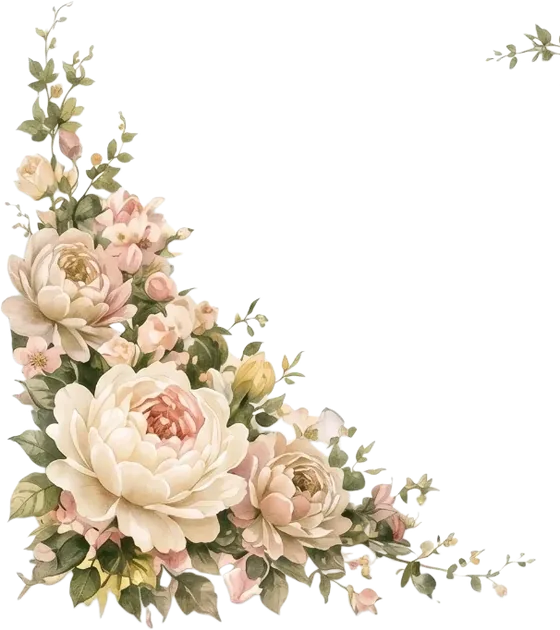
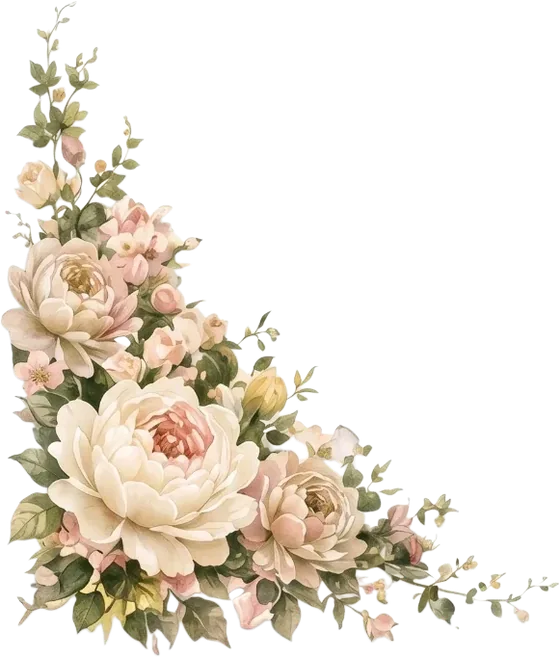
Polish the Kamal invitation: Latin countdown, clear kaf, clean florals
- Countdown shows zero-padded Latin numerals in Cinzel with gold colons
  and hairline rules instead of Arabic-Indic digits in the script font.
- The closing signature uses Amiri (Naskh) so the initial kaf of Kamal
  renders as a complete letter at phone size; Aref Ruqaa drew it as a bare slash.
- Re-cut the floral images so each keeps only its own pixels; the earlier
  rectangular crops carried stray fragments of neighbouring pieces.

Claude-Session: https://claude.ai/code/session_01Exgzvi7KaHibsgsTMPn8ms

Changed region(s): [[0.0304, 0.0, 1.0, 1.0], [0.8804, 0.0302, 1.0, 0.1206]]

diff --git a/ai-website-cloner-template-master/public/invites/kamal/index.html b/ai-website-cloner-template-master/public/invites/kamal/index.html
@@ -86,10 +86,11 @@ h1,h2{margin:0}
 
 /* countdown */
 .count{display:grid;grid-template-columns:repeat(4,1fr);gap:6px;width:100%}
-.cell{padding-block:8px 4px;position:relative}
-.cell+.cell::before{content:":";position:absolute;right:-5px;top:8px;font-family:var(--script);font-size:34px;color:var(--gold-bright);line-height:1.3}
-.cell b{display:block;font-family:var(--script);font-weight:700;font-size:clamp(32px,10.5vw,46px);color:var(--olive);line-height:1.4;font-variant-numeric:tabular-nums}
-.cell span{font-size:16px;color:var(--gold)}
+.count{border-top:1px solid rgba(200,162,74,.7);border-bottom:1px solid rgba(200,162,74,.7);padding-block:10px 8px;direction:rtl}
+.cell{padding-block:2px;position:relative}
+.cell+.cell::before{content:":";position:absolute;right:-4px;top:6px;font-family:var(--latin);font-weight:400;font-size:30px;color:var(--gold-bright);line-height:1.5;opacity:.85}
+.cell b{display:block;direction:ltr;unicode-bidi:isolate;font-family:var(--latin);font-weight:500;font-size:clamp(30px,9.6vw,44px);letter-spacing:.06em;text-indent:.06em;color:var(--olive);line-height:1.35;font-variant-numeric:lining-nums tabular-nums}
+.cell span{display:block;margin-top:2px;font-size:16px;color:var(--gold)}
 
 /* timeline */
 .tl{list-style:none;margin:0;padding:0;width:100%;position:relative;display:flex;flex-direction:column;gap:20px}
@@ -148,7 +149,7 @@ input:focus-visible,select:focus-visible,textarea:focus-visible{outline:2px soli
 .choice input:checked+label{background:var(--olive);color:#fff;border-color:var(--olive)}
 .choice input:focus-visible+label{outline:2px solid var(--gold-bright);outline-offset:2px}
 .thanks{font-family:var(--script);font-size:26px;color:var(--olive);padding-block:12px;line-height:1.8}
-.sign{font-family:var(--script);font-weight:700;font-size:40px;color:var(--olive);line-height:1.5}
+.sign{font-family:var(--body);font-weight:700;font-size:clamp(38px,12vw,50px);color:var(--olive);line-height:1.7;padding-block:.15em;letter-spacing:0;font-synthesis:none}
 .closing-space{height:190px}
 footer{text-align:center;font-family:var(--latin);font-size:11px;letter-spacing:.3em;color:var(--gold);padding-block:6px;text-shadow:0 1px 2px rgba(255,255,255,.7)}
 
@@ -257,10 +258,10 @@ footer{text-align:center;font-family:var(--latin);font-size:11px;letter-spacing:
   <section class="paper" aria-label="العد التنازلي">
     <h2 class="title"><svg aria-hidden="true"><use href="#swirl"/></svg>يبدأ الاحتفال بعد<svg aria-hidden="true"><use href="#swirl"/></svg></h2>
     <div class="count" id="count" role="timer" aria-live="off">
-      <div class="cell"><b id="d">٠</b><span>يوم</span></div>
-      <div class="cell"><b id="h">٠</b><span>ساعة</span></div>
-      <div class="cell"><b id="m">٠</b><span>دقيقة</span></div>
-      <div class="cell"><b id="s">٠</b><span>ثانية</span></div>
+      <div class="cell"><b id="d">00</b><span>يوم</span></div>
+      <div class="cell"><b id="h">00</b><span>ساعة</span></div>
+      <div class="cell"><b id="m">00</b><span>دقيقة</span></div>
+      <div class="cell"><b id="s">00</b><span>ثانية</span></div>
     </div>
   </section>
 
@@ -323,8 +324,8 @@ footer{text-align:center;font-family:var(--latin);font-size:11px;letter-spacing:
   </section>
 
   <section class="paper" aria-label="الختام">
-    <img class="fl fl-bl" src="/invites/kamal/img/f-bl-big.webp" alt="" width="560" height="630">
-    <img class="fl fl-br" src="/invites/kamal/img/f-br.webp" alt="" width="462" height="684">
+    <img class="fl fl-bl" src="/invites/kamal/img/f-bl-big.webp" alt="" width="560" height="657">
+    <img class="fl fl-br" src="/invites/kamal/img/f-br.webp" alt="" width="437" height="659">
     <p class="latin" style="margin-top:6px">WE HOPE TO SEE YOU THERE</p>
     <p class="quote" style="font-size:30px">نتشرف برؤيتكم</p>
     <p class="sign">كمال وكريمته</p>
@@ -438,7 +439,7 @@ footer{text-align:center;font-family:var(--latin);font-size:11px;letter-spacing:
   })();
 
   var target=new Date('2026-12-17T19:00:00+02:00').getTime();
-  var ar=function(n){return n.toLocaleString('ar-EG',{useGrouping:false})};
+  var ar=function(n){return String(n).padStart(2,'0')};
   function set(id,v){var el=document.getElementById(id);if(el.textContent!==v){el.textContent=v;el.classList.remove('tick');void el.offsetWidth;el.classList.add('tick')}}
   function tick(){
     var t=Math.max(0,target-Date.now()),s=Math.floor(t/1000);
